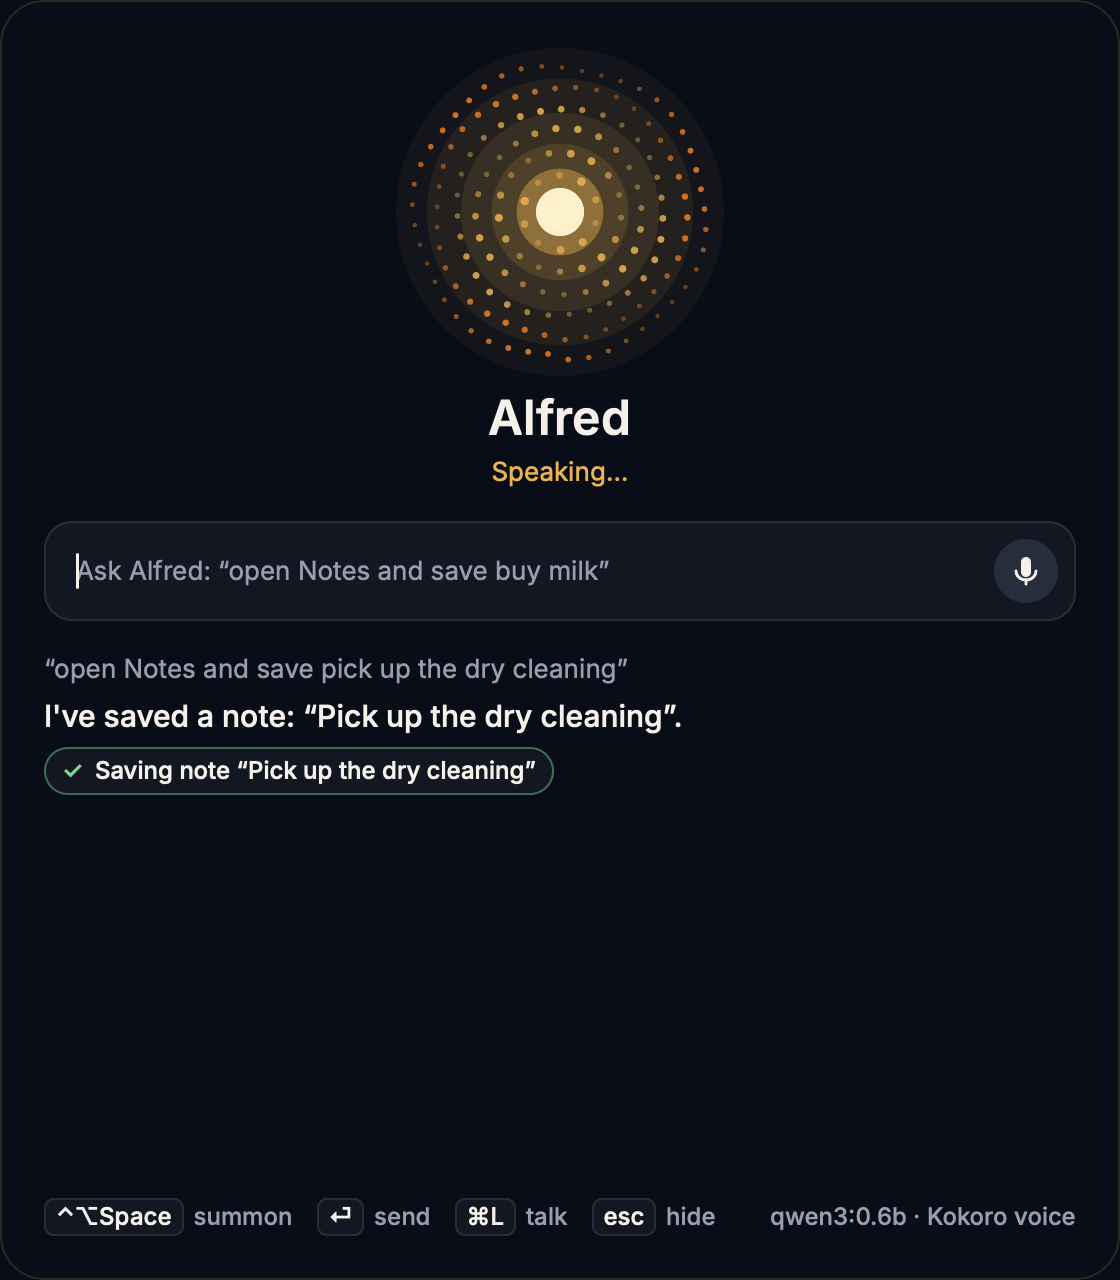
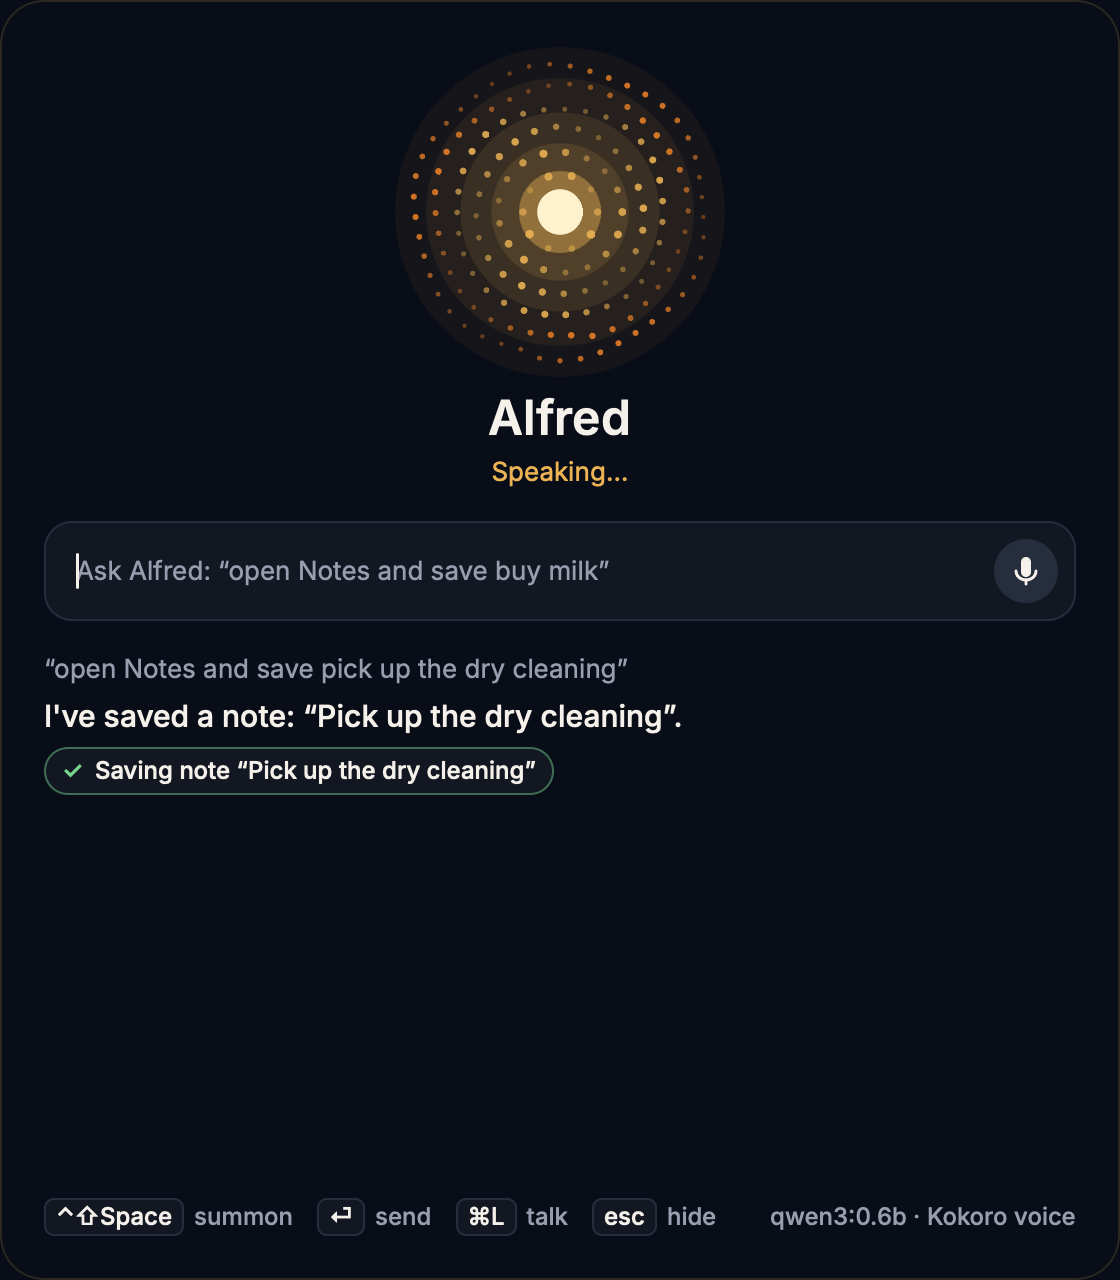
App: the panel shows at launch and the shortcut always brings it back
On the owner's Mac the panel never appeared:
- Hiding the panel closed its window, and in Rune closing a window
  without keep_running ends the app's run, shortcut included. The panel
  is now hidden (keeping its window and the conversation), and the app
  keeps running if its window is ever closed.
- Shown at launch while another app was in front, the panel never got
  focus, and hide-on-blur took it away at once. It now hides on blur
  only after it has had focus, and opens in front with the keyboard.
- ctrl+alt+space is macOS's "Select next source in Input menu", on
  whenever a Mac has two keyboard layouts, which takes the keystroke
  first. The default is now ctrl+shift+space (alt+space belongs to
  ChatGPT and Claude). Screenshots regenerated.

Checked live: on screen after launch, hidden by the shortcut, back
with it again.

diff --git a/apps/alfred/src/ui/mod.rs b/apps/alfred/src/ui/mod.rs
@@ -78,6 +78,10 @@ pub struct Ui {
     pub voice_ready: bool,
     pub ears_ready: bool,
     pub shortcut: String,
+    /// The panel has had the keyboard since it was last shown. Only then does losing it hide the panel:
+    /// shown while another app is in front (at launch, from Finder), it never gets focus, and hiding on
+    /// that first blur would take it away before anyone saw it.
+    had_focus: bool,
     attempt: u64,
     listen: Option<Listen>,
     speech: Option<Speech>,
@@ -101,6 +105,7 @@ impl Ui {
             voice_ready: true,
             ears_ready: true,
             shortcut: Config::default().ui.shortcut,
+            had_focus: false,
             attempt: 0,
             listen: None,
             speech: None,
@@ -245,16 +250,30 @@ impl Ui {
     fn toggle_visible(&mut self) {
         let Some(l) = &self.links else { return };
         if l.me.is_visible() {
-            l.me.hide();
+            self.hide_panel();
         } else {
+            self.had_focus = false;
             summon(&l.me);
         }
     }
 
-    fn on_focus(&mut self, focused: bool, tx: &mut Tx) {
+    fn on_focus(&mut self, focused: bool) {
+        if focused {
+            self.had_focus = true;
+            return;
+        }
         let hide = self.config().is_some_and(|c| c.ui.hide_on_blur);
-        if !focused && hide && self.mode != Mode::Listening {
-            tx.close_window();
+        if self.had_focus && hide && self.mode != Mode::Listening {
+            self.hide_panel();
+        }
+    }
+
+    /// Put the panel away, keeping its window and the conversation. (Closing the window would end the
+    /// app's run in Rune, and the shortcut with it: the panel could never come back.)
+    fn hide_panel(&mut self) {
+        self.had_focus = false;
+        if let Some(l) = &self.links {
+            l.me.hide();
         }
     }
 
@@ -333,14 +352,14 @@ impl Ui {
     }
 }
 
-/// Bring the panel up near the top of the screen the pointer is on.
+/// Bring the panel up near the top of the screen the pointer is on, in front and taking the keyboard
+/// (`open` also creates the window the first time).
 fn summon(me: &AppHandle<Ui>) {
     me.place(
         DisplayTarget::UnderPointer,
         OverlayPlacement::Edge { edge: ScreenEdge::Top, margin: 110.0, align: Align::Center, inset: 0.0 },
     );
-    me.show();
-    me.focus();
+    me.open();
 }
 
 /// Each frame: follow the microphone or the speech envelope, and end dictation on silence.
@@ -384,7 +403,7 @@ fn on_key(s: &mut Ui, ev: &KeyEvent, tx: &mut Tx) -> bool {
                 Mode::Speaking => s.stop_speaking(),
                 Mode::Listening => s.cancel_listening(),
                 _ if s.pending.is_some() => s.confirm(false),
-                _ => tx.close_window(),
+                _ => s.hide_panel(),
             }
             true
         }
@@ -430,10 +449,12 @@ pub fn run(args: Vec<String>) {
     let me = app.handle();
     let links = workers::spawn(config.clone(), me.clone());
     let shortcut = config.ui.shortcut.clone();
+    // keep_running: if the window is ever closed (rather than hidden), the app and its shortcut stay.
     let app = app
         .init(move || Ui::live(links))
+        .keep_running()
         .global_shortcut(&shortcut, |s, _| s.toggle_visible())
-        .on_focus(|s, focused, tx| s.on_focus(focused, tx));
+        .on_focus(|s, focused, _| s.on_focus(focused));
     if !args.iter().any(|a| a == "--background") {
         let first = me.clone();
         std::thread::spawn(move || {

diff --git a/crates/alfred-core/src/config.rs b/crates/alfred-core/src/config.rs
@@ -152,7 +152,7 @@ pub struct UiConfig {
 
 impl Default for UiConfig {
     fn default() -> Self {
-        Self { shortcut: "ctrl+alt+space".into(), hide_on_blur: true }
+        Self { shortcut: "ctrl+shift+space".into(), hide_on_blur: true }
     }
 }
 
@@ -230,7 +230,7 @@ mod tests {
         assert_eq!(c.llm.provider, Provider::Ollama);
         assert_eq!(c.llm.model, "qwen3:0.6b");
         assert_eq!(c.voice.voice, "bm_george");
-        assert_eq!(c.ui.shortcut, "ctrl+alt+space");
+        assert_eq!(c.ui.shortcut, "ctrl+shift+space");
         assert!(c.shortcuts.enabled && c.shortcuts.trusted.is_empty());
         assert_eq!(c.desktop.model, "qwen3:8b");
         assert_eq!(c.llm.with_model("qwen3:4b").base_url, c.llm.base_url);

diff --git a/apps/alfred/src/cli.rs b/apps/alfred/src/cli.rs
@@ -14,7 +14,7 @@ use crate::speech::{self, Playback};
 const HELP: &str = "Alfred, a local assistant for your Mac.
 
 USAGE
-  alfred                      open Alfred (summon it any time with the shortcut, ctrl+alt+space by default)
+  alfred                      open Alfred (summon it any time with the shortcut, ctrl+shift+space by default)
   alfred ask [options] TEXT   do what TEXT asks and print the answer
       --dry-run                 show the actions instead of running them
       --yes                     answer yes when Alfred asks to confirm (including a Send it stopped before)

diff --git a/apps/alfred/src/ui/tests.rs b/apps/alfred/src/ui/tests.rs
@@ -125,5 +125,6 @@ fn dictation_without_the_model_says_so() {
 #[test]
 fn shortcuts_print_as_mac_symbols() {
     assert_eq!(pretty_shortcut("ctrl+alt+space"), "⌃⌥Space");
+    assert_eq!(pretty_shortcut("ctrl+shift+space"), "⌃⇧Space");
     assert_eq!(pretty_shortcut("cmd+shift+k"), "⌘⇧K");
 }

diff --git a/docs/specs/2026-11-24-alfred-v1-design.md b/docs/specs/2026-11-24-alfred-v1-design.md
@@ -31,8 +31,11 @@ speak with Kokoro, be MIT open source, and be built with [Rune](https://github.c
    `[patch.crates-io]` entry at the same rev, as Rune's README requires). *Rejected:* SwiftUI (not Rune),
    Tauri plus a web UI (heavier, and not what was asked).
 2. **One accessory app (no Dock icon) with a launcher panel summoned by a global shortcut**, default
-   `ctrl+alt+space` (configurable). `alt+space` is avoided because the Alfred launcher and ChatGPT already
-   claim it. Escape or losing focus hides the panel. Rune has no macOS status item yet, so v1 ships
+   `ctrl+shift+space` (configurable). `alt+space` is avoided because the Alfred launcher and ChatGPT already
+   claim it; `ctrl+alt+space`, the first default, turned out to be macOS's "Select next source in Input
+   menu", on whenever a Mac has two keyboard layouts, which takes the keystroke first (found on the owner's
+   Mac, 2026-11-24). Escape or losing focus hides the panel, but only once it has had focus: shown while
+   another app is in front (at launch), it would otherwise vanish before anyone saw it. Rune has no macOS status item yet, so v1 ships
    without a menu-bar icon. *Rejected:* a regular windowed app (an assistant should be one keystroke away);
    an always-on overlay (v2).
 3. **Two-tier brain: a deterministic intent router first, then the LLM agent with tools, then plain chat.**

diff --git a/README.md b/README.md
@@ -13,7 +13,7 @@ Summon it, say or type what you need, and it opens your apps, saves notes, adds 
 
 ## What it does
 
-- **Summon it anywhere.** Press <kbd>⌃⌥Space</kbd> and the panel drops in at the top of the screen you're on. <kbd>esc</kbd> hides it.
+- **Summon it anywhere.** Press <kbd>⌃⇧Space</kbd> and the panel drops in at the top of the screen you're on. <kbd>esc</kbd> hides it.
 - **Talk or type.** Click the orb (or <kbd>⌘L</kbd>) and speak; Alfred stops listening when you do.
 - **It does things.** Opens and quits apps, saves notes in Notes, adds reminders, searches Google, opens links, tells the time.
 - **It reads your mail and drafts replies.** "Read my last email", "reply to it saying I'll be there at 3": the reply opens in Mail for you to check and send. Alfred never sends mail.
@@ -163,7 +163,7 @@ voice = "bm_george"          # British male; try bf_emma, af_heart, am_michael
 speed = 1.05
 
 [ui]
-shortcut = "ctrl+alt+space"
+shortcut = "ctrl+shift+space"   # macOS keeps ⌃Space and ⌃⌥Space for switching keyboards
 hide_on_blur = true
 
 [search]
